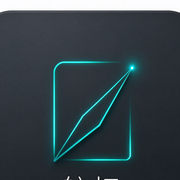
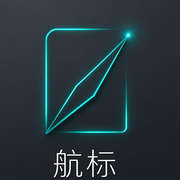
fix: 图标主体居中裁切修复错位 + feat: 主题色切换(青/紫/蓝/绿/橙) + 删除cnblogs书签(DB)

Changed region(s): [[0.2222, 0.1389, 0.8056, 1.0], [0.0, 0.0, 1.0, 0.0833]]

diff --git a/src/components/nav-bar.tsx b/src/components/nav-bar.tsx
@@ -11,6 +11,10 @@ export function NavBar() {
     if (typeof window === "undefined") return "dark";
     return (localStorage.getItem("nav-theme") as "dark" | "light" | null) ?? "dark";
   });
+  const [accent, setAccent] = useState<string>(() => {
+    if (typeof window === "undefined") return "cyan";
+    return localStorage.getItem("nav-accent") ?? "cyan";
+  });
   const [user, setUser] = useState<User | null>(null);
   const [authModal, setAuthModal] = useState<"login" | "signup" | null>(null);
   const [profileModal, setProfileModal] = useState(false);
@@ -25,6 +29,10 @@ export function NavBar() {
   useEffect(() => {
     document.documentElement.setAttribute("data-theme", theme);
   }, [theme]);
+
+  useEffect(() => {
+    document.documentElement.setAttribute("data-accent", accent);
+  }, [accent]);
 
   useEffect(() => {
     const supabase = createClient();
@@ -47,6 +55,19 @@ export function NavBar() {
     document.documentElement.setAttribute("data-theme", newTheme);
     localStorage.setItem("nav-theme", newTheme);
   };
+
+  const changeAccent = (id: string) => {
+    setAccent(id);
+    localStorage.setItem("nav-accent", id);
+  };
+
+  const ACCENTS = [
+    { id: "cyan", color: "#22d3ee", name: "青色" },
+    { id: "violet", color: "#8b5cf6", name: "紫色" },
+    { id: "blue", color: "#3b82f6", name: "蓝色" },
+    { id: "green", color: "#10b981", name: "绿色" },
+    { id: "orange", color: "#f59e0b", name: "橙色" },
+  ];
 
   if (!mounted) return null;
 
@@ -116,6 +137,17 @@ export function NavBar() {
               </button>
             </>
           )}
+          <div className="accent-picker" title="主题色">
+            {ACCENTS.map((a) => (
+              <button
+                key={a.id}
+                className={`accent-dot ${accent === a.id ? "active" : ""}`}
+                style={{ background: a.color }}
+                onClick={() => changeAccent(a.id)}
+                aria-label={a.name}
+              />
+            ))}
+          </div>
           <button
             className="theme-toggle"
             onClick={toggleTheme}

diff --git a/src/app/globals.css b/src/app/globals.css
@@ -40,6 +40,37 @@
   --shadow-hover: 0 8px 32px rgba(0, 0, 0, 0.1);
 }
 
+/* ========== 主题色组（默认青色在 :root，以下可覆盖） ========== */
+[data-accent="violet"] {
+  --accent: #8b5cf6;
+  --accent-light: #a78bfa;
+  --accent-glow: rgba(139, 92, 246, 0.25);
+}
+
+[data-accent="blue"] {
+  --accent: #3b82f6;
+  --accent-light: #60a5fa;
+  --accent-glow: rgba(59, 130, 246, 0.25);
+}
+
+[data-accent="green"] {
+  --accent: #10b981;
+  --accent-light: #34d399;
+  --accent-glow: rgba(16, 185, 129, 0.25);
+}
+
+[data-accent="orange"] {
+  --accent: #f59e0b;
+  --accent-light: #fbbf24;
+  --accent-glow: rgba(245, 158, 11, 0.25);
+}
+
+[data-theme="light"][data-accent="cyan"] { --accent-glow: rgba(34, 211, 238, 0.15); }
+[data-theme="light"][data-accent="violet"] { --accent-glow: rgba(139, 92, 246, 0.15); }
+[data-theme="light"][data-accent="blue"] { --accent-glow: rgba(59, 130, 246, 0.15); }
+[data-theme="light"][data-accent="green"] { --accent-glow: rgba(16, 185, 129, 0.15); }
+[data-theme="light"][data-accent="orange"] { --accent-glow: rgba(245, 158, 11, 0.15); }
+
 * {
   margin: 0;
   padding: 0;
@@ -126,6 +157,36 @@ body {
   justify-content: center;
   transition: var(--transition);
   color: var(--text-secondary);
+}
+
+/* 主题色选择器 */
+.accent-picker {
+  display: flex;
+  align-items: center;
+  gap: 6px;
+  padding: 5px 10px;
+  border: 1px solid var(--border);
+  border-radius: 100px;
+  background: var(--bg-card);
+}
+
+.accent-dot {
+  width: 16px;
+  height: 16px;
+  border-radius: 50%;
+  border: 2px solid transparent;
+  cursor: pointer;
+  padding: 0;
+  transition: var(--transition);
+}
+
+.accent-dot:hover {
+  transform: scale(1.2);
+}
+
+.accent-dot.active {
+  border-color: var(--text-primary);
+  box-shadow: 0 0 10px var(--accent-glow);
 }
 
 .theme-toggle:hover {
@@ -590,6 +651,10 @@ body {
 
   .nav-bar {
     padding: 12px 16px;
+  }
+
+  .accent-picker {
+    display: none;
   }
 
   .search-input {
